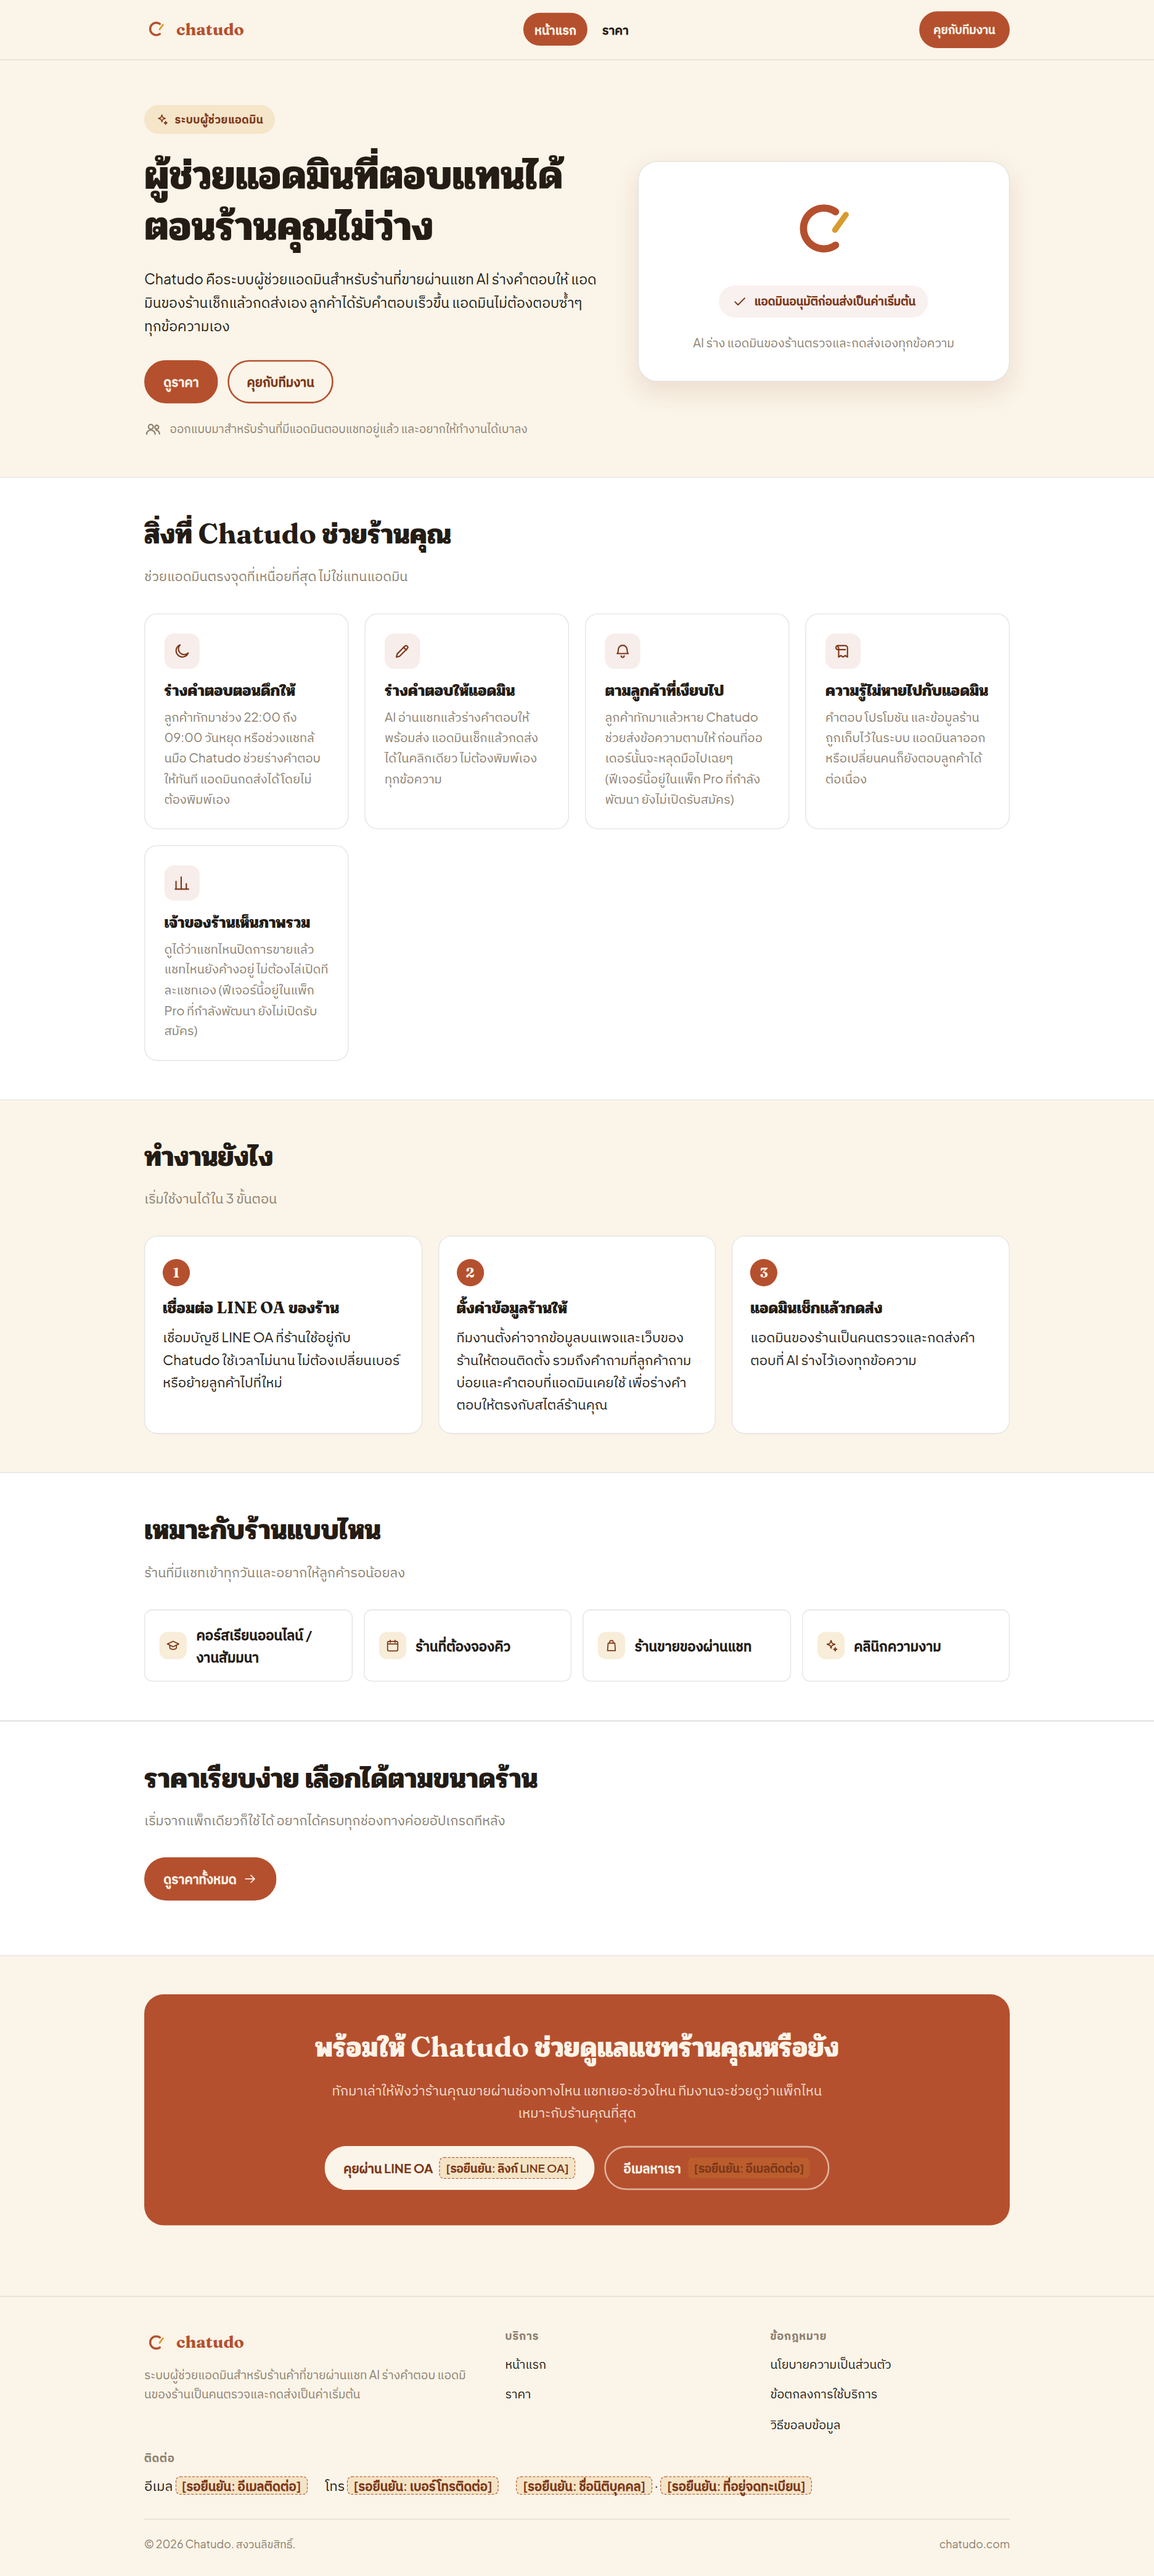
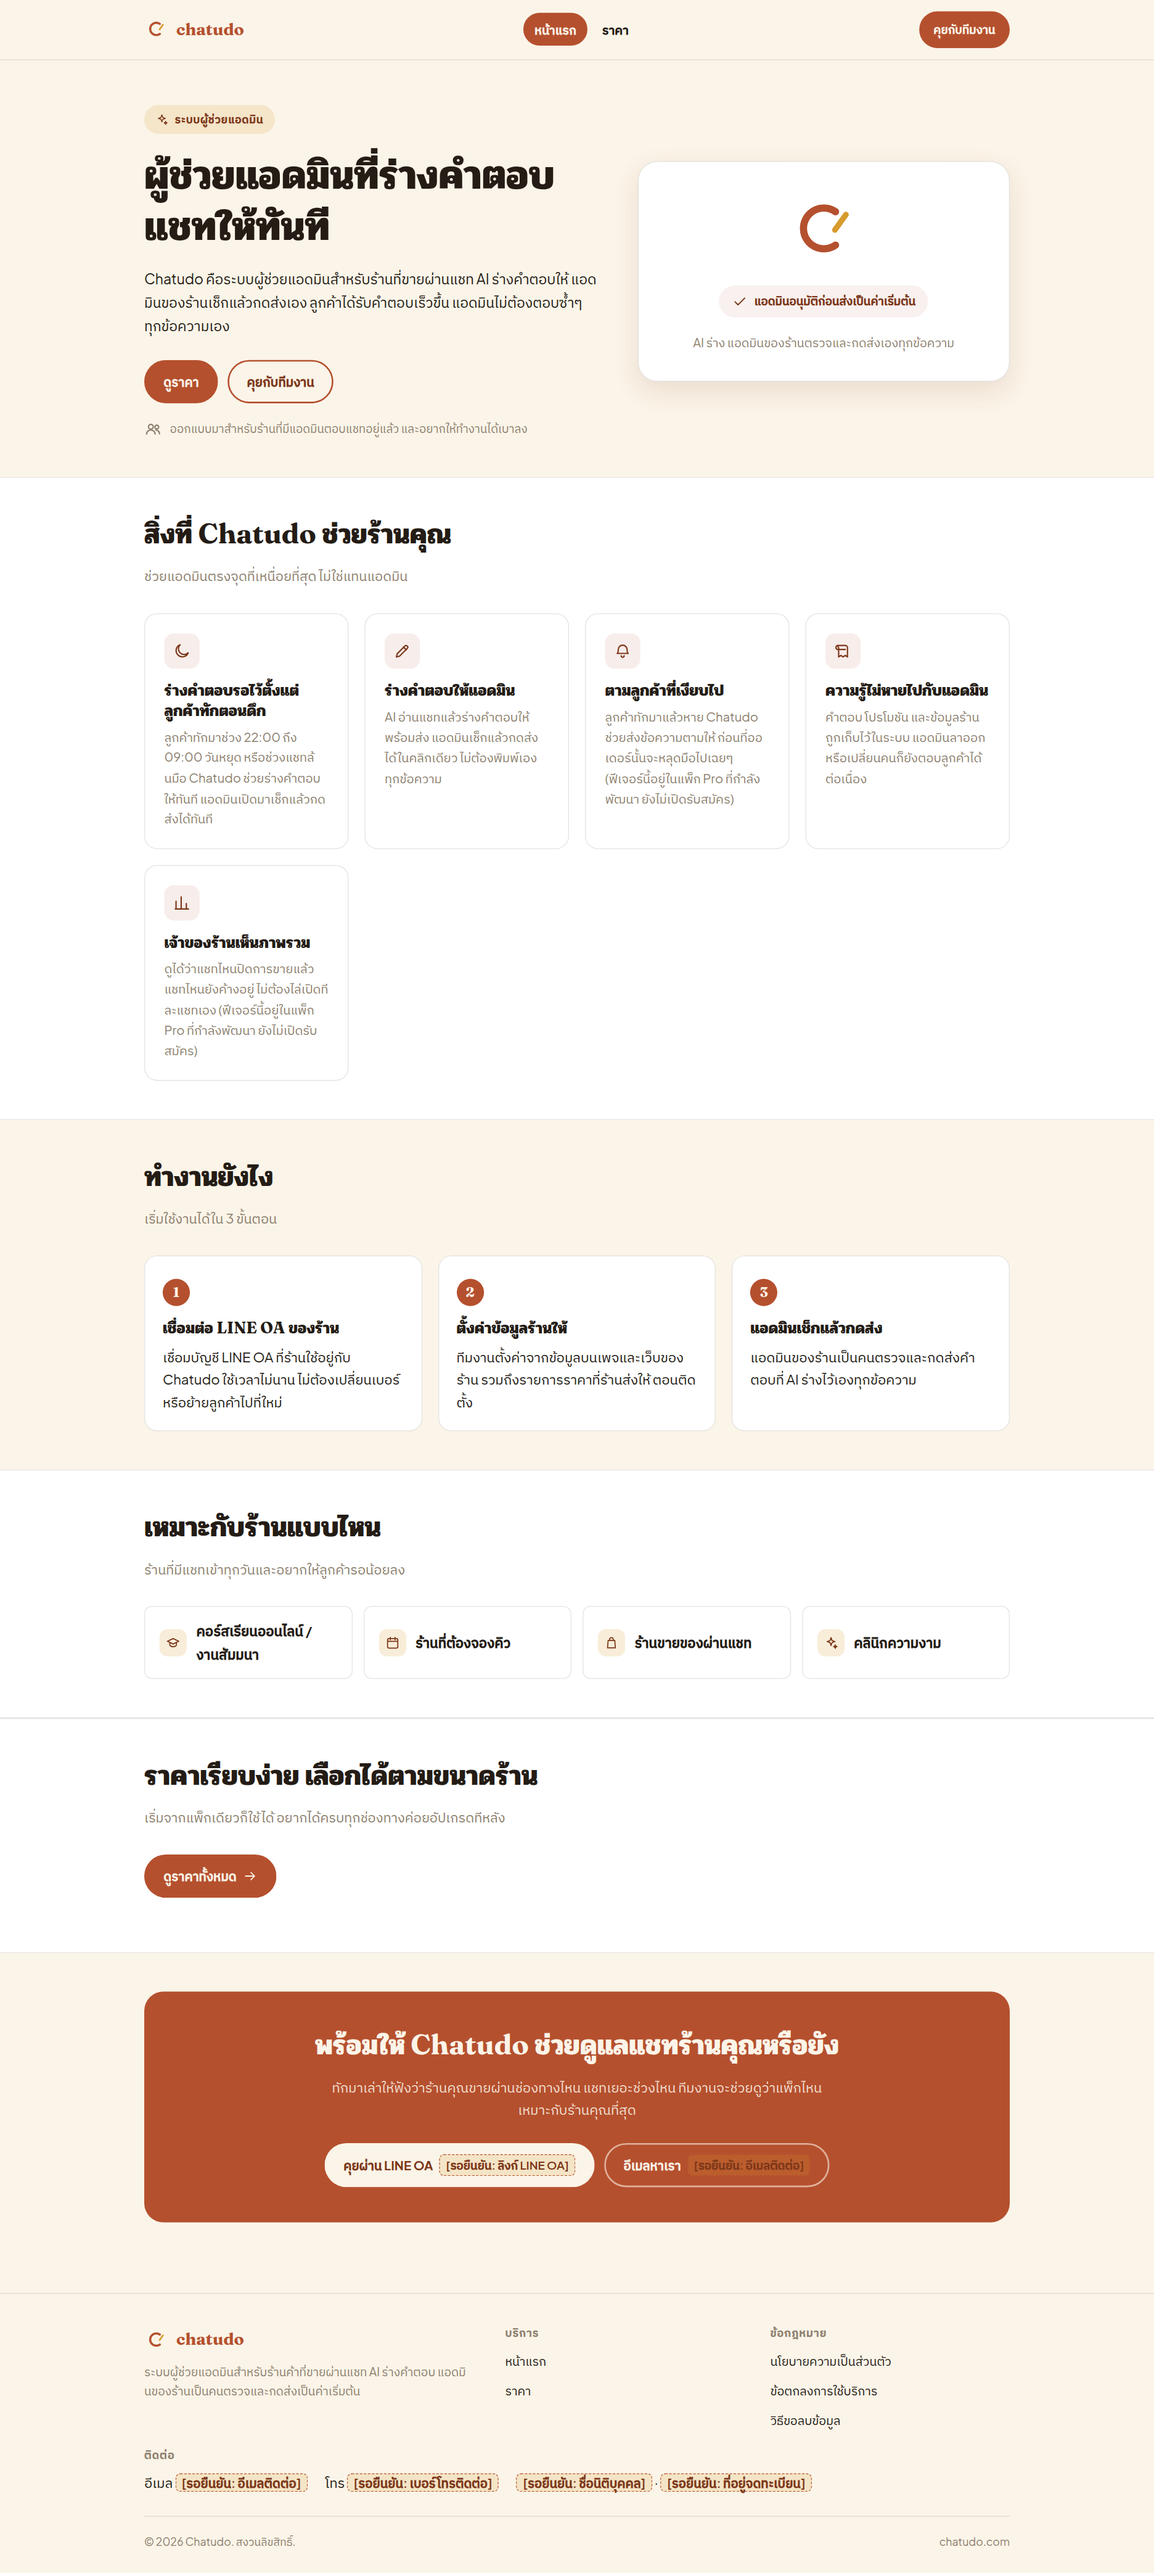
content(chatudo-webapp): home-page copy update per CMO 3c1fc6bc (task-69003396)
Replace four Thai strings in build/render.py per the CMO's exact wording
(1 Oct 16:5x): home h1, the moon job-card title+body ending, the cap
segment body, and the book install-step body. Rebuilt public/ and
regenerated docs/screenshots/home-desktop.png and home-mobile.png.

Claude-Session: https://claude.ai/code/session_01HGiisBqGtJdERj1ncST2Uz

diff --git a/public/index.html b/public/index.html
@@ -53,7 +53,7 @@
   <div class="container">
     <div class="hero-copy">
       <span class="eyebrow"><svg viewBox="0 0 24 24" fill="none" stroke="currentColor" stroke-width="1.8" stroke-linecap="round" stroke-linejoin="round" aria-hidden="true" focusable="false"><path d="M12 3.5l1.7 4.8 4.8 1.7-4.8 1.7-1.7 4.8-1.7-4.8-4.8-1.7 4.8-1.7Z"/><path d="M19 15.5l.8 2 2 .8-2 .8-.8 2-.8-2-2-.8 2-.8Z"/></svg> ระบบผู้ช่วยแอดมิน</span>
-      <h1>ผู้ช่วยแอดมินที่ตอบแทนได้ตอนร้านคุณไม่ว่าง</h1>
+      <h1>ผู้ช่วยแอดมินที่ร่างคำตอบแชทให้ทันที</h1>
       <p class="hero-lede">Chatudo คือระบบผู้ช่วยแอดมินสำหรับร้านที่ขายผ่านแชท AI ร่างคำตอบให้ แอดมินของร้านเช็กแล้วกดส่งเอง ลูกค้าได้รับคำตอบเร็วขึ้น แอดมินไม่ต้องตอบซ้ำๆ ทุกข้อความเอง</p>
       <div class="hero-ctas">
         <a class="btn btn-primary" href="/pricing/">ดูราคา</a>
@@ -78,8 +78,8 @@
     <div class="grid">
     <div class="card">
       <div class="icon"><svg viewBox="0 0 24 24" fill="none" stroke="currentColor" stroke-width="1.8" stroke-linecap="round" stroke-linejoin="round" aria-hidden="true" focusable="false"><path d="M20.5 14.5A8.5 8.5 0 1 1 9.5 3.5a7 7 0 0 0 11 11Z"/></svg></div>
-      <h3>ร่างคำตอบตอนดึกให้</h3>
-      <p>ลูกค้าทักมาช่วง 22:00 ถึง 09:00 วันหยุด หรือช่วงแชทล้นมือ Chatudo ช่วยร่างคำตอบให้ทันที แอดมินกดส่งได้โดยไม่ต้องพิมพ์เอง</p>
+      <h3>ร่างคำตอบรอไว้ตั้งแต่ลูกค้าทักตอนดึก</h3>
+      <p>ลูกค้าทักมาช่วง 22:00 ถึง 09:00 วันหยุด หรือช่วงแชทล้นมือ Chatudo ช่วยร่างคำตอบให้ทันที แอดมินเปิดมาเช็กแล้วกดส่งได้ทันที</p>
     </div>
 
     <div class="card">
@@ -125,7 +125,7 @@
     <div class="step">
       <span class="step-num">2</span>
       <h3>ตั้งค่าข้อมูลร้านให้</h3>
-      <p>ทีมงานตั้งค่าจากข้อมูลบนเพจและเว็บของร้านให้ตอนติดตั้ง รวมถึงคำถามที่ลูกค้าถามบ่อยและคำตอบที่แอดมินเคยใช้ เพื่อร่างคำตอบให้ตรงกับสไตล์ร้านคุณ</p>
+      <p>ทีมงานตั้งค่าจากข้อมูลบนเพจและเว็บของร้าน รวมถึงรายการราคาที่ร้านส่งให้ ตอนติดตั้ง</p>
     </div>
 
     <div class="step">

diff --git a/build/render.py b/build/render.py
@@ -93,7 +93,7 @@ def contact_section() -> str:
 # ---------------------------------------------------------------------------
 
 JOBS = [
-    ("moon", "ร่างคำตอบตอนดึกให้", "ลูกค้าทักมาช่วง 22:00 ถึง 09:00 วันหยุด หรือช่วงแชทล้นมือ Chatudo ช่วยร่างคำตอบให้ทันที แอดมินกดส่งได้โดยไม่ต้องพิมพ์เอง"),
+    ("moon", "ร่างคำตอบรอไว้ตั้งแต่ลูกค้าทักตอนดึก", "ลูกค้าทักมาช่วง 22:00 ถึง 09:00 วันหยุด หรือช่วงแชทล้นมือ Chatudo ช่วยร่างคำตอบให้ทันที แอดมินเปิดมาเช็กแล้วกดส่งได้ทันที"),
     ("pencil", "ร่างคำตอบให้แอดมิน", "AI อ่านแชทแล้วร่างคำตอบให้พร้อมส่ง แอดมินเช็กแล้วกดส่งได้ในคลิกเดียว ไม่ต้องพิมพ์เองทุกข้อความ"),
     ("bell", "ตามลูกค้าที่เงียบไป", "ลูกค้าทักมาแล้วหาย Chatudo ช่วยส่งข้อความตามให้ ก่อนที่ออเดอร์นั้นจะหลุดมือไปเฉยๆ (ฟีเจอร์นี้อยู่ในแพ็ก Pro ที่กำลังพัฒนา ยังไม่เปิดรับสมัคร)"),
     ("book", "ความรู้ไม่หายไปกับแอดมิน", "คำตอบ โปรโมชัน และข้อมูลร้านถูกเก็บไว้ในระบบ แอดมินลาออกหรือเปลี่ยนคนก็ยังตอบลูกค้าได้ต่อเนื่อง"),
@@ -102,12 +102,12 @@ JOBS = [
 
 STEPS = [
     ("link", "เชื่อมต่อ LINE OA ของร้าน", "เชื่อมบัญชี LINE OA ที่ร้านใช้อยู่กับ Chatudo ใช้เวลาไม่นาน ไม่ต้องเปลี่ยนเบอร์หรือย้ายลูกค้าไปที่ใหม่"),
-    ("book", "ตั้งค่าข้อมูลร้านให้", "ทีมงานตั้งค่าจากข้อมูลบนเพจและเว็บของร้านให้ตอนติดตั้ง รวมถึงคำถามที่ลูกค้าถามบ่อยและคำตอบที่แอดมินเคยใช้ เพื่อร่างคำตอบให้ตรงกับสไตล์ร้านคุณ"),
+    ("book", "ตั้งค่าข้อมูลร้านให้", "ทีมงานตั้งค่าจากข้อมูลบนเพจและเว็บของร้าน รวมถึงรายการราคาที่ร้านส่งให้ ตอนติดตั้ง"),
     ("check", "แอดมินเช็กแล้วกดส่ง", "แอดมินของร้านเป็นคนตรวจและกดส่งคำตอบที่ AI ร่างไว้เองทุกข้อความ"),
 ]
 
 SEGMENTS = [
-    ("cap", "คอร์สเรียนออนไลน์ / งานสัมมนา", "ตอบคำถามเรื่องหลักสูตร ตารางเรียน และการชำระเงินแทนแอดมินตอนดึก"),
+    ("cap", "คอร์สเรียนออนไลน์ / งานสัมมนา", "ร่างคำตอบเรื่องหลักสูตร ตารางเรียน และการชำระเงินให้แอดมินเช็กแล้วกดส่ง"),
     ("calendar", "ร้านที่ต้องจองคิว", "ร้านทำผม ทำเล็บ สปา ที่ลูกค้าทักมาถามคิวว่างตลอดวัน"),
     ("bag", "ร้านขายของผ่านแชท", "ร้านที่ปิดการขายในแชทเป็นหลัก ต้องตอบไว ไม่ปล่อยให้ลูกค้ารอ"),
     ("sparkle", "คลินิกความงาม", "ตอบคำถามเรื่องบริการและนัดหมาย พร้อมส่งต่อให้แอดมินดูแลเคสที่ต้องใช้ดุลยพินิจ"),
@@ -157,7 +157,7 @@ def render_home() -> str:
   <div class="container">
     <div class="hero-copy">
       <span class="eyebrow">{icon('sparkle')} ระบบผู้ช่วยแอดมิน</span>
-      <h1>ผู้ช่วยแอดมินที่ตอบแทนได้ตอนร้านคุณไม่ว่าง</h1>
+      <h1>ผู้ช่วยแอดมินที่ร่างคำตอบแชทให้ทันที</h1>
       <p class="hero-lede">Chatudo คือระบบผู้ช่วยแอดมินสำหรับร้านที่ขายผ่านแชท AI ร่างคำตอบให้ แอดมินของร้านเช็กแล้วกดส่งเอง ลูกค้าได้รับคำตอบเร็วขึ้น แอดมินไม่ต้องตอบซ้ำๆ ทุกข้อความเอง</p>
       <div class="hero-ctas">
         <a class="btn btn-primary" href="/pricing/">ดูราคา</a>
